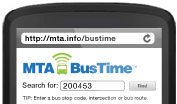
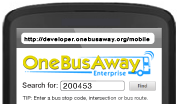
Removed MTA specific images and updated their references

Changed region(s): [[0.113, 0.4904, 0.8757, 0.75], [0.113, 0.3173, 0.8757, 0.4327]]

diff --git a/onebusaway-nyc-acta-webapp/src/main/webapp/css/sign/branding.css b/onebusaway-nyc-acta-webapp/src/main/webapp/css/sign/branding.css
@@ -24,17 +24,17 @@ h1 {
 	text-indent: -9999px;
 	height: 50px;
 	width: 261px;
-	background-image: url('img/bustime-50.png');
+	background-image: url('img/onebusaway-nyc-50.png');
 	background-repeat: no-repeat;
 	background-position: 0px 0px;
 	display: block;	
 }
 
-body.landscape.size1000 h1 { height: 60px; width: 314px; background: transparent url(img/bustime-60.png) 0 0 no-repeat scroll; }
-body.landscape.size1200 h1 { height: 75px; width: 392px; background: transparent url(img/bustime-75.png) 0 0 no-repeat scroll; }
+body.landscape.size1000 h1 { height: 60px; width: 314px; background: transparent url(img/onebusaway-nyc-60.png) 0 0 no-repeat scroll; }
+body.landscape.size1200 h1 { height: 75px; width: 392px; background: transparent url(img/onebusaway-nyc-75.png) 0 0 no-repeat scroll; }
 
-body.portrait.size1000 h1 { height: 60px; width: 314px; background: transparent url(img/bustime-60.png) 0 0 no-repeat scroll; }
-body.portrait.size1200 h1 { height: 75px; width: 392px; background: transparent url(img/bustime-75.png) 0 0 no-repeat scroll; }
-body.portrait.size1600 h1 { height: 90px; width: 471px; background: transparent url(img/bustime-90.png) 0 0 no-repeat scroll; }
-body.portrait.size1900 h1 { height: 90px; width: 471px; background: transparent url(img/bustime-90.png) 0 0 no-repeat scroll; }
+body.portrait.size1000 h1 { height: 60px; width: 314px; background: transparent url(img/onebusaway-nyc-60.png) 0 0 no-repeat scroll; }
+body.portrait.size1200 h1 { height: 75px; width: 392px; background: transparent url(img/onebusaway-nyc-75.png) 0 0 no-repeat scroll; }
+body.portrait.size1600 h1 { height: 90px; width: 471px; background: transparent url(img/onebusaway-nyc-90.png) 0 0 no-repeat scroll; }
+body.portrait.size1900 h1 { height: 90px; width: 471px; background: transparent url(img/onebusaway-nyc-90.png) 0 0 no-repeat scroll; }
 

diff --git a/onebusaway-nyc-acta-webapp/src/main/webapp/css/branding.css b/onebusaway-nyc-acta-webapp/src/main/webapp/css/branding.css
@@ -58,7 +58,7 @@
 	width: 302px;
 	height: 58px;
 	display: block;
-	background-image: url('img/bustime.png');
+	background-image: url('img/onebusaway-nyc.png');
 	background-repeat: no-repeat;
 	text-indent: -9999px;
 }
@@ -122,7 +122,7 @@
 	width: 302px;
 	height: 58px;
 	display: block;
-	background-image: url('img/bustime.png');
+	background-image: url('img/onebusaway-nyc.png');
 	background-repeat: no-repeat;
 	text-indent: -9999px;
 }

diff --git a/onebusaway-nyc-acta-webapp/src/main/webapp/css/mobile/branding.css b/onebusaway-nyc-acta-webapp/src/main/webapp/css/mobile/branding.css
@@ -19,7 +19,7 @@
 #branding h1 a {
 	display: block;
 	text-indent: -9999px;
-	background-image: url("../img/bustime.png");
+	background-image: url("../img/onebusaway-nyc.png");
 	background-repeat: no-repeat;
 	width: 302px;
 	height: 58px;

diff --git a/onebusaway-nyc-acta-webapp/src/main/webapp/css/sign/sign.css b/onebusaway-nyc-acta-webapp/src/main/webapp/css/sign/sign.css
@@ -229,7 +229,7 @@ small {
 }
 
 #branding {
-	background-image: url('img/bustime-56.png');
+	background-image: url('img/onebusaway-nyc-56.png');
 	background-position: center center;
 	background-repeat: no-repeat;
 	height: 100%;
